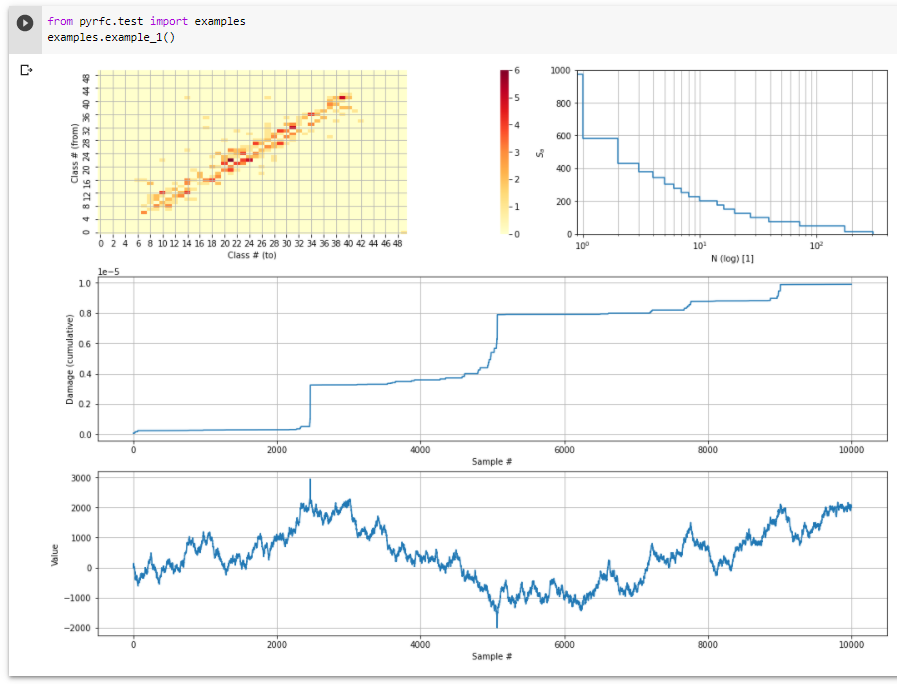
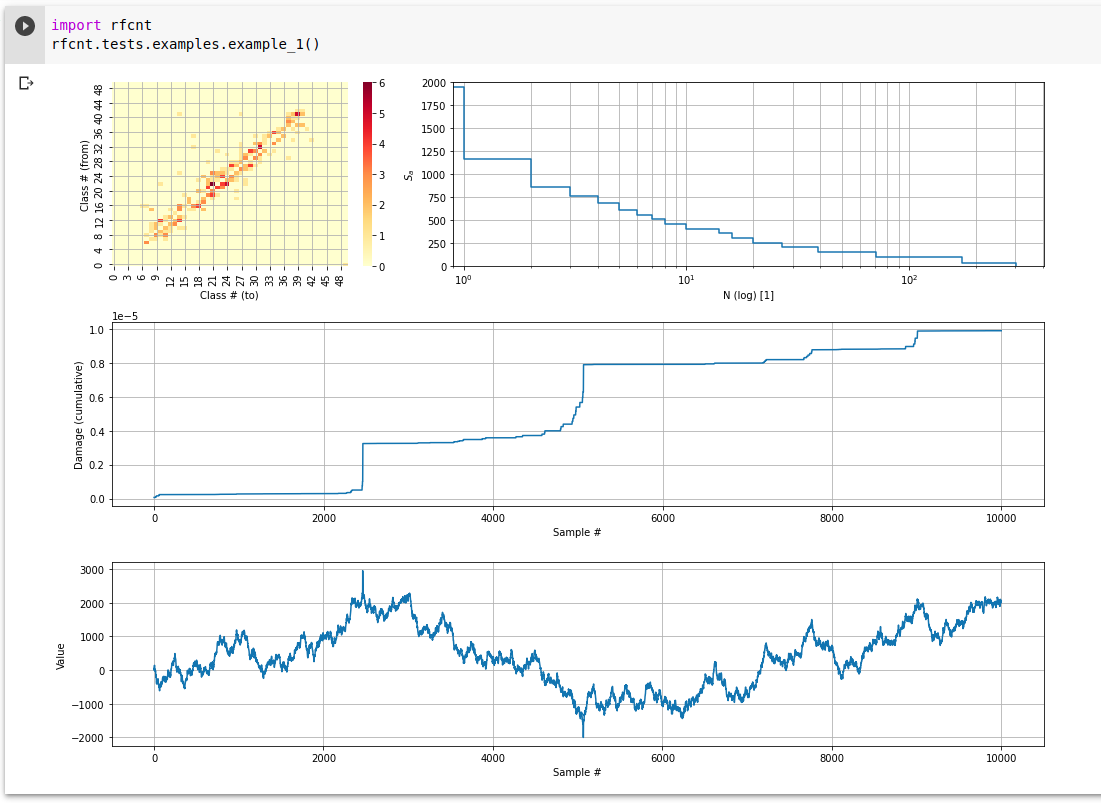
rfcnt-0.2.0
Python:
- New parameter "lc_method" to control counting of falling and/or rising slopes. Default changed from rising AND falling slopes to rising only!
- Results of range pair counting now hold the ranges instead of the amplitudes.

diff --git a/python/src/rfcnt.cpp b/python/src/rfcnt.cpp
@@ -33,26 +33,28 @@ const char* rfc_err_str( int nr )
 static
 int parse_rfc_kwargs( PyObject* kwargs, Py_ssize_t len, Rainflow *rf, Rainflow::rfc_res_method *res_method )
 {
-    PyObject *empty = PyTuple_New(0);
-    int class_count = 100;
-    double class_width = -1;
-    double class_offset = 0;
-    double hysteresis = -1;
-    int enforce_margin = 1;
-    int use_hcm = 0;
-    int use_astm = 0;
-    int spread_damage = Rainflow::RFC_SD_TRANSIENT_23c;
-    PyObject *wl = NULL;
-    double wl_sd = 1e3, wl_nd = 1e7, 
-           wl_k  =   5, wl_k2 =   5;
+    PyObject   *empty           =  PyTuple_New(0);
+    int         class_count     =  100;
+    double      class_width     = -1;  // -1 = "calculated"
+    double      class_offset    =  0;
+    double      hysteresis      = -1;  // -1 = "calculated"
+    int         enforce_margin  =  1;  // true
+    int         use_hcm         =  0;  // false
+    int         use_astm        =  0;  // false
+    int         lc_method       =  0;  // Count rising slopes only
+    int         flags           =  Rainflow::RFC_FLAGS_DEFAULT;
+    int         spread_damage   =  Rainflow::RFC_SD_TRANSIENT_23c;
+    PyObject   *wl              =  NULL;
+    double      wl_sd           =  1e3, wl_nd = 1e7, 
+                wl_k            =  5,   wl_k2 = 5;
 
     *res_method = Rainflow::RFC_RES_REPEATED;
 
     char* kw[] = {"class_width", "class_count", "class_offset", 
                   "hysteresis","residual_method", "enforce_margin", 
-                  "use_HCM", "use_ASTM", "spread_damage", "wl", NULL};
+                  "use_HCM", "use_ASTM", "spread_damage", "lc_method", "wl", NULL};
 
-    if( !PyArg_ParseTupleAndKeywords( empty, kwargs, "d|iddiiiiiO", kw,
+    if( !PyArg_ParseTupleAndKeywords( empty, kwargs, "d|iddiiiiiiO", kw,
                                       &class_width,
                                       &class_count,
                                       &class_offset,
@@ -62,6 +64,7 @@ int parse_rfc_kwargs( PyObject* kwargs, Py_ssize_t len, Rainflow *rf, Rainflow::
                                       &use_hcm,
                                       &use_astm,
                                       &spread_damage,
+                                      &lc_method,
                                       &wl ) )
     {
         Py_DECREF( empty );
@@ -117,7 +120,29 @@ int parse_rfc_kwargs( PyObject* kwargs, Py_ssize_t len, Rainflow *rf, Rainflow::
         if( hysteresis < 0 ) hysteresis = class_width;
     }
 
-    if( !rf->init( class_count, class_width, class_offset, hysteresis ) )
+    // lc_method
+    flags &= ~Rainflow::RFC_FLAGS_COUNT_LC;
+
+    switch( lc_method )
+    {
+        case 0:
+            flags |= Rainflow::RFC_FLAGS_COUNT_LC_UP;
+            break;
+
+        case 1:
+            flags |= Rainflow::RFC_FLAGS_COUNT_LC_DN;
+            break;
+
+        case 2:
+            flags |= Rainflow::RFC_FLAGS_COUNT_LC;
+            break;
+
+        default:
+            PyErr_SetString( PyExc_RuntimeError, "Parameter 'lc_method' must be in range 0 to 2!" );
+            return 0;
+    }
+
+    if( !rf->init( class_count, class_width, class_offset, hysteresis, (Rainflow::rfc_flags_e)flags ) )
     {
         PyErr_Format( PyExc_RuntimeError, "Rainflow initialization error (%s)", rfc_err_str( rf->error_get() ) );
         return 0;
@@ -275,7 +300,7 @@ int prepare_results( Rainflow *rf, Rainflow::rfc_res_method res_method, PyObject
     PyArray_FILLWBYTE( arr, 0 );
     for( unsigned i = 0; i < class_count; i++ )
     {
-        *(double*)PyArray_GETPTR2( arr, i, 0 ) = (double)sa[i];
+        *(double*)PyArray_GETPTR2( arr, i, 0 ) = (double)sa[i] * 2;  // range = 2 * amplitude
         *(double*)PyArray_GETPTR2( arr, i, 1 ) = (double)ct[i];
     }
     PyDict_SetItemString( *ret, "rp", (PyObject*)arr );
@@ -290,7 +315,7 @@ int prepare_results( Rainflow *rf, Rainflow::rfc_res_method res_method, PyObject
     PyArray_FILLWBYTE( arr, 0 );
     for( unsigned i = 0; i < class_count; i++ )
     {
-        *(double*)PyArray_GETPTR2( arr, i, 0 ) = (double)sa[i];
+        *(double*)PyArray_GETPTR2( arr, i, 0 ) = (double)sa[i];  // class upper limit
         *(double*)PyArray_GETPTR2( arr, i, 1 ) = (double)ct[i];
     }
     PyDict_SetItemString( *ret, "lc", (PyObject*)arr );

diff --git a/python/tests/test_rfcnt.py b/python/tests/test_rfcnt.py
@@ -155,7 +155,7 @@ class TestRainflowCounting(unittest.TestCase):
         class_width       =  50
         x                 =  pd.read_csv(os.path.join(self.get_script_path(), "long_series.csv"), header=None)
         x                 =  x.to_numpy().squeeze()
-        hysteresis        = class_width
+        hysteresis        =  class_width
         use_HCM           =  0
         enforce_margin    =  1  # Enforce first and last data point included in tp
         use_HCM           =  0  # Use 4 point method, not HCM

diff --git a/python/tests/examples.py b/python/tests/examples.py
@@ -54,7 +54,7 @@ def example_1():
         y=r["sa"],
         drawstyle='steps-pre', ci=None, ax=ax2)
     plt.xscale("log")
-    plt.ylim(bottom=0, top=1000)
+    plt.ylim(bottom=0, top=2000)
     plt.xlim(left=0.9)
     plt.grid(which="both")
     plt.xlabel("N (log) [1]")

diff --git a/python/setup.py b/python/setup.py
@@ -1,7 +1,7 @@
 from setuptools import setup, Extension
 from os import path
 
-version = (0, 1, 2)
+version = (0, 2, 0)
 
 try:
     from numpy import get_include as get_numpy_include

diff --git a/python/README.md b/python/README.md
@@ -25,7 +25,7 @@ predefined functions.
     pip install {packagename}.tar.gz
 where _{packagename}_ is the current package release, for example:
 
-    pip install rfcnt-0.1.1.tar.gz
+    pip install rfcnt-0.2.0.tar.gz
 
 ### Test
 _rfcnt_ packages include some unit tests, which can be run:
